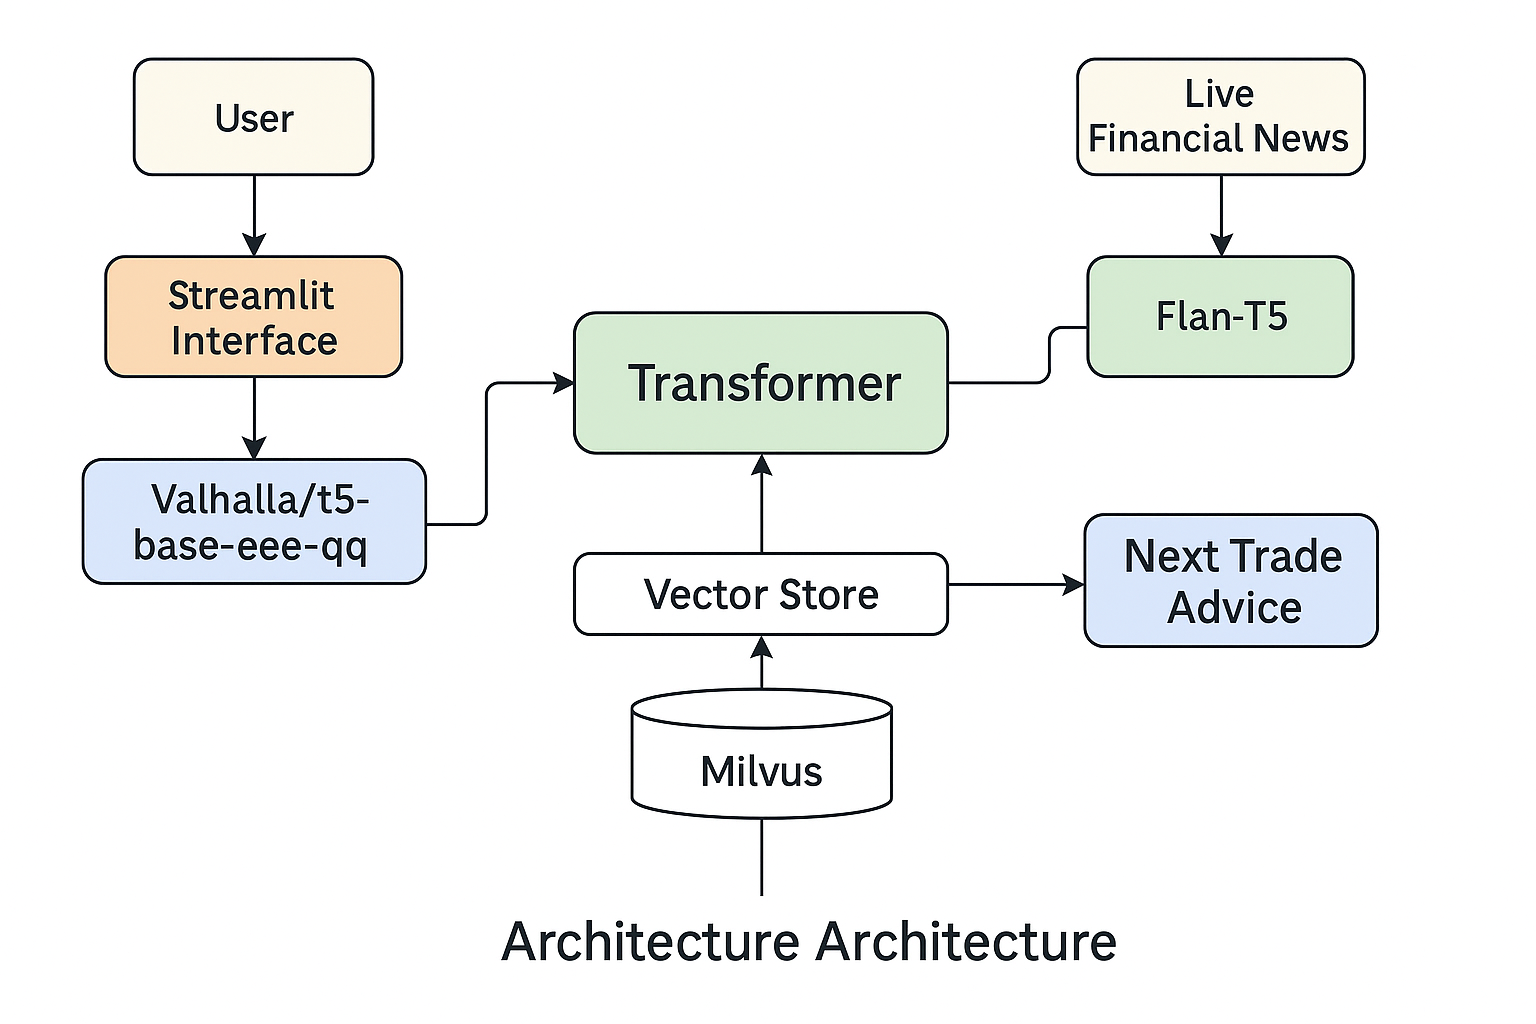
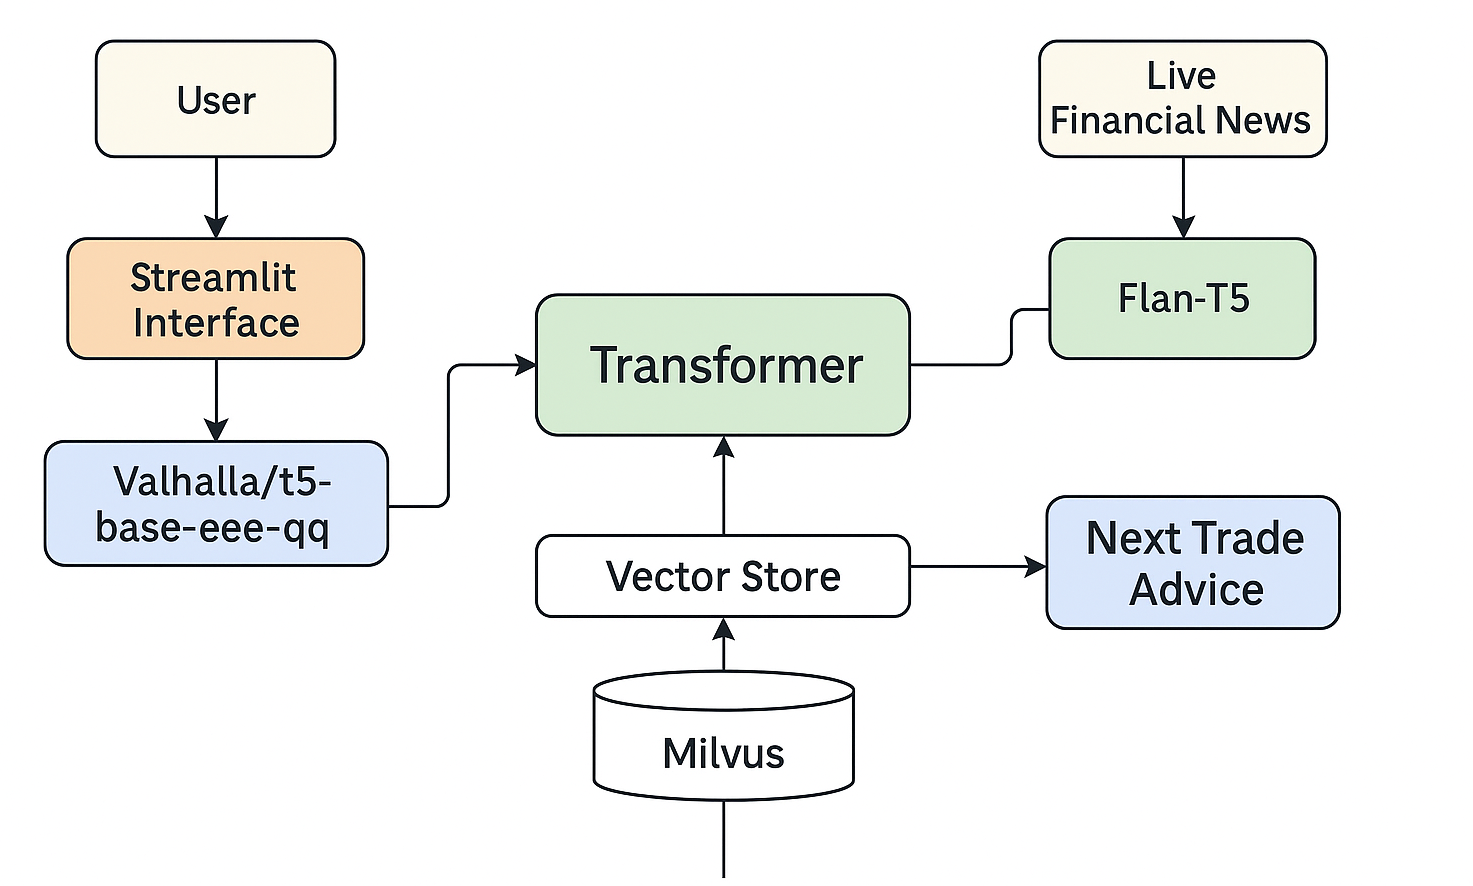
Update documentation

Changed region(s): [[0.3123, 0.0305, 0.9369, 0.9447], [0.0312, 0.2133, 0.3123, 0.64], [0.0625, 0.0305, 0.2498, 0.1828]]

diff --git a/README.md b/README.md
@@ -1,6 +1,14 @@
 # TradeSage
 TradeSage is a GenAI-powered financial advisory assistant that provides intelligent, context-aware insights for your next trade. It combines live market sentiment, semantic memory, and deep domain understanding from The Alchemy of Finance to simulate a smart trading partner.
 
+### Architecture
+
+<img src="/architecture.png">
+
+### UI
+<img src="/ui.png">
+
+
 ### Components
 #### Data pre-processing layer
 - Preprocessing layer using the PDF to text with `docling` & QA generation using `valhalla/t5-base-e2e-qg` for directed task
@@ -61,9 +69,6 @@ Non-trainable params: 0 (0.00 Byte)
 
 - Interactive UI with Streamlit: Offers a chat-like experience for real-time interaction.
 
-### Architecture
-
-<img src="/architecture.png">
 
 
 ### Sample Conversation
@@ -105,13 +110,13 @@ Bot: Exiting chatbot. Goodbye!
 
 #### Clone the repo
 ```bash
-git clone https://github.com/your-username/tradesage.git
-cd tradesage
+git clone https://github.com/glanzz/TradeSage.git
+cd TradeSage
 ```
 
 #### Install dependencies
 ```bash
-pip install -r requirements.txt
+pip install -r requirements.lock
 ```
 
 #### Ensure Milvus is running
@@ -119,7 +124,7 @@ pip install -r requirements.txt
 
 #### Run the app
 ```bash
-streamlit run app.py
+streamlit run app/main.py
 ```
 
 
